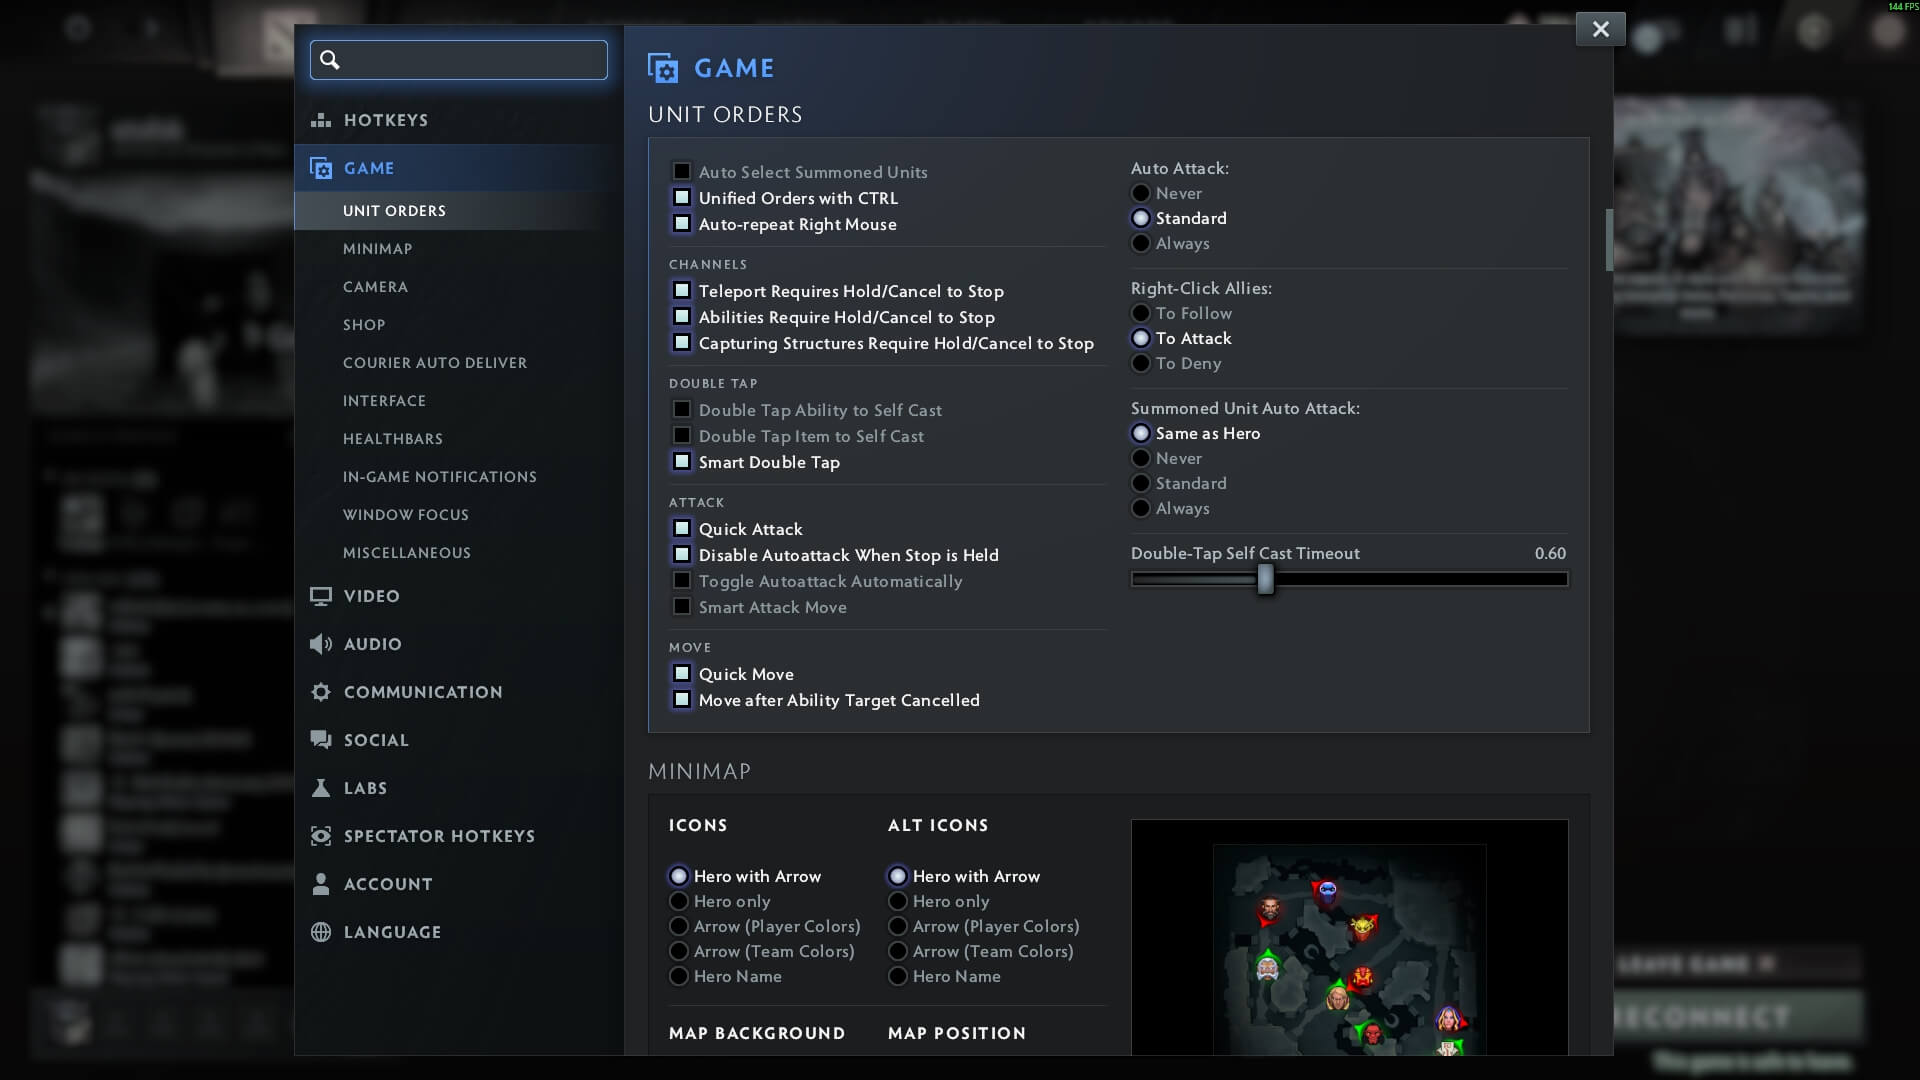
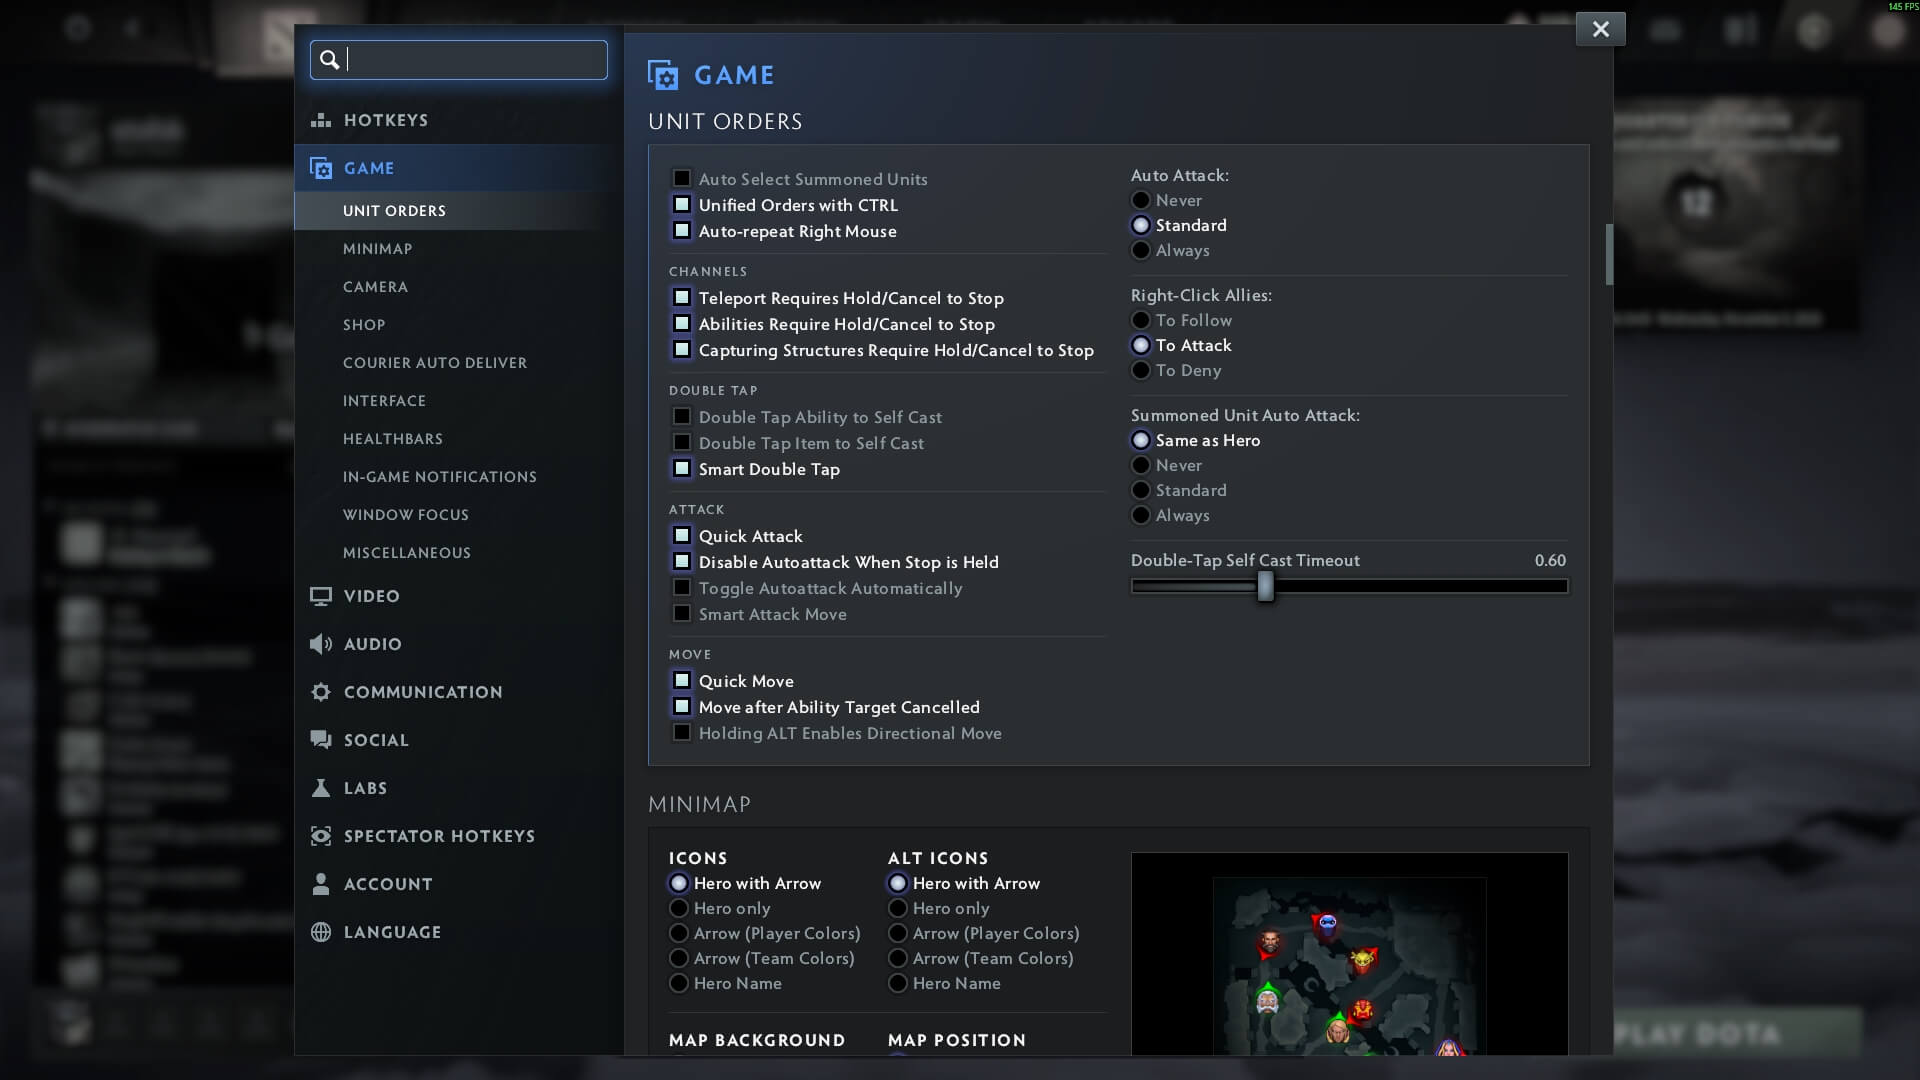
.

diff --git a/web/html/section-7-abilities-5-and-6.html b/web/html/section-7-abilities-5-and-6.html
@@ -4,13 +4,17 @@
 
       <p class="mt2">
         Extending our 'Ability row' to the right is not ideal. <br>
-        While <kbd>T</kbd> is somewhat ok — <kbd>Y</kbd> is just terrible.<br><br>
-        Also we want to keep in mind that not every hero <i>even has</i> <act>Ability 5</act> & <act>Ability 6</act>.<br>
-        And when they do, sometimes they are important and something not at all.<br>
+        While <kbd>T</kbd> is good key, <kbd>Y</kbd> is not.
+      </p>
+
+      <p class="mt2">
+        But not every hero <i>has</i> <act>Ability 5</act> or/and <act>Ability 6</act>.<br>
+        And if they do, some abilities are very important and some are rarely used.<br>
+        Some abilities are passives.
       </p>      
 
       <p class="mt2">
-        And sometimes one of the 'Core 4' abilities is a passive.
+        I believe I found a solution.
       </p>
 
       <div class="separator mt2"></div>
@@ -19,74 +23,66 @@
 
       <img class="" src="assets/images/options/abilities-phantom-assassin-binds-01.jpg" alt="">
 
-      <p>
-        Considering the fact that <span class="nowrap"><spell>Phantom Assassin</spell><img class="heroicon" src="assets/images/heroicon/phantomassassin.jpg" alt=""></span> has no summons, doesn't really buy <span class="nowrap"><spell>Manta Style</spell><img class="heroicon" src="assets/images/itemicon/mantastyle.jpg" alt=""></span>, and never gets <span class="nowrap"><spell>Book of the Dead</spell><img class="heroicon" src="assets/images/itemicon/bookofthedead.jpg" alt=""></span> — she's probably the simplest hero in the game in terms of unit control.
-      </p>
+      <p class="mt2">
+        Here we moved <span class="nowrap"><spell>Fan of Knives</spell><img class="heroicon" src="assets/images/spellicon/fanofknives.jpg" alt=""></span> from <kbd>T</kbd> to <kbd>R</kbd>, because <span class="nowrap"><spell>Coup De Grace</spell><img class="heroicon" src="assets/images/spellicon/coupdegrace.jpg" alt=""></span> is a passive ability.<br><br>
+        We just made it easier for outselves to use it.
+      </p>      
 
       <div class="separator mt2"></div>
 
       <p class="mt2">
-        Another example is <span class="nowrap"><spell>Ogre Magi</spell><img class="heroicon" src="assets/images/heroicon/ogremagi.jpg" alt=""></span>.
+        Another example: <span class="nowrap"><spell>Ogre Magi</spell><img class="heroicon" src="assets/images/heroicon/ogremagi.jpg" alt=""></span>.
       </p>
 
       <p class="mt2">
-        6 Abilities, but <span class="nowrap"><spell>Multicast</spell><img class="heroicon" src="assets/images/spellicon/multicast.jpg" alt=""></span> is a <i>passive</i>.<br>
-        It can't be activated.<br>
-      </p>
-
-      <p class="mt2">
-        So, let's use <kbd>R</kbd> for one of the other abilities:
+        <span class="nowrap"><spell>Multicast</spell><img class="heroicon" src="assets/images/spellicon/multicast.jpg" alt=""></span> is a <i>passive</i>.<br>
+        It can't be activated.
       </p>
 
       <p>
-        Leave <span class="nowrap"><spell>Bloodlust</spell><img class="heroicon" src="assets/images/spellicon/bloodlust.jpg" alt=""></span> on <kbd>E</kbd> and move <span class="nowrap"><spell>Fire Shield</spell><img class="heroicon" src="assets/images/spellicon/fireshield.jpg" alt=""></span> to <kbd>R</kbd>.
+        Here we moved <span class="nowrap"><spell>Fire Shield</spell><img class="heroicon" src="assets/images/spellicon/fireshield.jpg" alt=""></span> to <kbd>R</kbd>.
       </p>
 
       <img class="" src="assets/images/options/abilities-ogremagi-binds.jpg" alt="">
 
       <p>
-        This is reasonable, because both of our 'buff abilities' are next to each other and use great keys.<br>
-        But this is not ideal, because...
-      </p>
-
-      <div class="separator mt2"></div>
-
-      <p class="mt2"><span class="red">Important!</span><br><br>
-        You still <b>want</b> a hotkey for your passive abilities:<br>
-        If you don't have a hotkey, you can't use <kbd>CTRL</kbd> + <kbd>Ability Key</kbd> to learn the ability.<br>
-        You don't need <i>a great</i> key, but you <b>do</b> need <i>a</i> key.
+        This is reasonable, because both of our 'buff abilities' <span class="nowrap"><spell>Bloodlust</spell><img class="heroicon" src="assets/images/spellicon/bloodlust.jpg" alt=""> and <spell>Fire Shield</spell><img class="heroicon" src="assets/images/spellicon/fireshield.jpg" alt=""></span> are next to each other and use great keys.<br>
       </p>
 
       <div class="separator mt2"></div>
 
       <p class="mt2">
-        Let's try something with 6 <i>active</i> buttons:
+        <span class="red">> > Important! < <</span><br><br>
+        You still <b>need</b> a hotkey for your passive abilities!<br><br>
+        If you don't have a hotkey, you can't use <kbd>CTRL</kbd> + <kbd>Ability Key</kbd> to LEARN the ability.
+      </p>      
+
+      <p class="mt2">
+        You don't need <i>a great</i> key, but you <b>do need</b> <i>a</i> key.
+      </p>
+
+      <div class="separator mt2"></div>
+
+      <p class="mt2">
+        Here I want to highlight something...
       </p>
 
       <img class="" src="assets/images/options/abilities-hoodwink-binds-01.jpg" alt=""> 
 
-      <p>
-        This is really clunky and looks awful.
-      </p> 
-
       <p class="mt2">
-        But I want to highlight something — <b>it is possible to bind abilities to control group keys</b>.
+        <span class="red">It is possible to bind abilities to control group keys!</span>
       </p>
 
       <p class="mt2">
-        <span class="red">Important:</span> despite the fact that we have <act>Control Group 4</act> bound to <kbd>4</kbd>, it's still possible to use <kbd>4</kbd> as an ability key!
+        Despite the fact that we have <act>Control Group 4</act> bound to <kbd>4</kbd>, we can use <kbd>4</kbd> as an ability key!
       </p>
       
       <p class="mt2">
-        That's great news, because <span class="nowrap"><spell>Hoodwink</spell><img class="heroicon" src="assets/images/heroicon/hoodwink.jpg" alt=""></span> has no use for this many control groups, so keys like <kbd>3</kbd>, <kbd>4</kbd> and <kbd>5</kbd> are essentially free real estate.
+        That's <i>fantastic news</i>, because most of the time we have no use for this many control groups, so keys like <kbd>3</kbd>, <kbd>4</kbd> and <kbd>5</kbd> are essentially free real estate.
       </p>
       
       <p class="mt2">
-        Realistically, the only other units you <i>might</i> have when playing <span class="nowrap"><spell>Hoodwink</spell><img class="heroicon" src="assets/images/heroicon/hoodwink.jpg" alt=""></span> is <span class="nowrap"><spell>Book of the Dead</spell><img class="heroicon" src="assets/images/itemicon/bookofthedead.jpg" alt=""></span>, for which you don't even need a dedicated control group because you can just use <act>Select All Other Units</act> <span class="smaller">(more on that later)</span>.
-      </p>
-      
-      <p class="mt2">
-        This means, <span class="nowrap"><spell>Hoodwink</spell><img class="heroicon" src="assets/images/heroicon/hoodwink.jpg" alt=""></span> — among many — can get away with <b>0 control groups</b>.<br>
+        This means, <span class="nowrap"><spell>Hoodwink</spell><img class="heroicon" src="assets/images/heroicon/hoodwink.jpg" alt=""></span> — and many other heroes — can get away with <b>0 control groups</b>.<br>
         We can easily have a set up like this:
       </p>
 
@@ -105,27 +101,21 @@
       <div class="separator mt2"></div>
 
       <p class="mt2">
-        Here's <span class="nowrap"><spell>Invoker</spell><img class="heroicon" src="assets/images/heroicon/invoker.jpg" alt=""></span>, and he's no more difficult:
+        Here are two variations for <span class="nowrap"><spell>Invoker</spell><img class="heroicon" src="assets/images/heroicon/invoker.jpg" alt=""></span>
       </p>
 
       <img class="" src="assets/images/options/abilities-invoker-binds-01.jpg" alt="">
 
-      <p class="mt2">
-        Alternatively, if you don't care about control groups — just bind them. <br>
-        Leave <kbd>2</kbd> for <span class="nowrap"><spell>Forge Spirit</spell><img class="heroicon" src="assets/images/spellicon/forgespirit.jpg" alt=""></span> and use something like this:
-      </p>
-
       <img class="" src="assets/images/options/abilities-invoker-binds-02.jpg" alt="">
 
       <p class="mt2">
-        Ideally, to next-level your <span class="nowrap"><spell>Invoker</spell><img class="heroicon" src="assets/images/heroicon/invoker.jpg" alt=""></span> you'd want to cast <span class="nowrap"><spell>Invoke</spell><img class="heroicon" src="assets/images/spellicon/invoke.jpg" alt=""></span> with your thumb — so that you use all the fingers. It's more efficient this way, and faster.<br>
-        But that's a story for another day.
+        Leave <kbd>2</kbd> for <span class="nowrap"><spell>Forge Spirits</spell><img class="heroicon" src="assets/images/spellicon/forgespirit.jpg" alt=""></span>
       </p>
 
       <div class="separator mt2"></div>
 
       <p class="mt2">
-        Now let me show you something interesting.
+        Now you can experiement with your hotkeys to find the best set up for your heroes.
       </p>
 
     </div>

diff --git a/web/html/section-15-command-directional-move.html b/web/html/section-15-command-directional-move.html
@@ -4,18 +4,19 @@
 
       <p>
         Sometimes you want to turn your hero towards a direction <i>exactly</i>.<br><br>
-        That's why <act>Directional Move</act> is used all the time on heroes like <span class="nowrap"><spell>Shadow Fiend</spell><img class="heroicon" src="assets/images/heroicon/shadowfiend.jpg" alt=""></span>, <span class="nowrap"><spell>Slark</spell><img class="heroicon" src="assets/images/heroicon/slark.jpg" alt=""></span>, <span class="nowrap"><spell>Ursa</spell><img class="heroicon" src="assets/images/heroicon/ursa.jpg" alt=""></span>, <span class="nowrap"><spell>Earth Spirit</spell><img class="heroicon" src="assets/images/heroicon/earthspirit.jpg" alt=""></span>.<br>
-        It's much easier to line up your spells.
+        That's why <act>Directional Move</act> is used all the time on heroes like <span class="nowrap"><spell>Shadow Fiend</spell><img class="heroicon" src="assets/images/heroicon/shadowfiend.jpg" alt=""></span>, <span class="nowrap"><spell>Slark</spell><img class="heroicon" src="assets/images/heroicon/slark.jpg" alt=""></span>, <span class="nowrap"><spell>Ursa</spell><img class="heroicon" src="assets/images/heroicon/ursa.jpg" alt=""></span>, <span class="nowrap"><spell>Earth Spirit</spell><img class="heroicon" src="assets/images/heroicon/earthspirit.jpg" alt=""></span>.
       </p>
 
       <p class="mt2">
-        There are 2 ways to bind it.
-      </p>
+        Because it's much easier to line up your spells.
+        So, There are 2 ways to bind it.
+      </p>      
 
       <div class="separator mt2"></div>
 
       <p class="mt2">
-        <kbd>CapsLock</kbd> is a great key for <act>Directional Move</act>, because you activate it with the pinky finger, which allows you to use all the abilities and items as usual.
+        <kbd>CapsLock</kbd> is a great key for <act>Directional Move</act>, because you activate it with the pinky finger.<br>
+        This allows you to use all the abilities and items as usual.
       </p>
 
       <ul>
@@ -24,32 +25,46 @@
 
       <div class="separator mt2"></div>
 
+      <img class="" src="assets/images/options/new-alt-directional-move.jpg" alt="">
+
       <p class="mt2">
-        <span class="red">Not available through in-game settings</span>, but<br>
-        You can bind your <kbd>Alt</kbd> to your Right-Click in <b>autoexec.cfg</b><br>
+        With the August 19, 2025 update Valve added this:
+      </p>
+
+      <img class="" src="assets/images/options/command-directional-move-alt.jpg" alt="">
+
+      <p class="mt2">
+        Holding <kbd>Alt</kbd> Enabled <act>Direcional Move</act>
+      </p>
+
+      <p class="mt2">
+        However, I do not recommend using this.<br>
+        Because, while yes it's more convenient for <act>Directional Move</act> it really makes <i>everything else</i> worse.
+      </p>
+
+      <p class="mt2">
+        Think about it, we use <kbd>Alt</kbd> for everything:<br>
+        - Self cast abilities, items
+        - Toggle abilities, items
+        - All things shop and courier
+        - Pings on things
+      </p>
+
+      <p class="mt2">
+        We optimized our hotkey layout around <kbd>Alt</kbd>.<br>
+        This setting gets in the way and makes the experience worse.
+        Use a normal hotkey instead like <kbd>CapsLock</kbd> or <kbd>Win</kbd>
+      </p>
+
+      <div class="separator mt2"></div>
+
+      <p class="mt2">
+        p.s. this setting has always been in the game, but you had to set it up in console or autoexec.cfg like this:
       </p>
 
       <ul>
         <li>bind "ALT" "+dota_directional_move"</li>
         <li>cl_dota_alt_unit_movetodirection true</li>
       </ul>
-
-      <p class="mt2">
-        Got this from <a href="https://old.reddit.com/r/DotA2/comments/1mt4wdv/make_alt_right_click_directional_move/" target="_blank">this topic</a> recently.
-      </p>
-
-      <div class="separator mt2"></div>
-
-      <p class="mt2">
-        <b>Dota 2 autoexec.cfg location</b>: \Steam\steamapps\common\dota 2 beta\game\dota\cfg<br><br>
-        If you don't have it there just create one.
-      </p>
-
-      <p class="mt2">
-        Personally, I don't like it.<br>
-        I hate it, even.<br>
-        After this got me killed at couple of times I removed it from my autoexec.cgf<br>
-        (you have to "unbind" and "false" the commands.)
-      </p>
 
     </div>

diff --git a/web/html/section-5-abilities-quickcast.html b/web/html/section-5-abilities-quickcast.html
@@ -3,33 +3,30 @@
       <h2>Abilities — Quick Cast</h2>
 
       <p>
-        Quick Casts allow us to cast instantly with a key press, eliminating the need for a mouse click.<br>
-        Put everything on Quick Casts, with one exception — <act>Point Target</act> Area of Effect spells.
+        Abilities on Quick Casts fire as soon as you press the key.<br>
+        You don't need to "Select Target".
       </p>
       
       <p class="mt2">
-        Notable examples: <span class="nowrap"><spell>Black Hole</spell><img class="heroicon" src="assets/images/spellicon/blackhole.jpg" alt=""></span>, <span class="nowrap"><spell>Nether Blast</spell><img class="heroicon" src="assets/images/spellicon/netherblast.jpg" alt=""></span>, <span class="nowrap"><spell>Chronosphere</spell><img class="heroicon" src="assets/images/spellicon/chronosphere.jpg" alt=""></span>, etc.
+        As a rule of thumb, use Quick Casts for everything <u>except</u> Point Target Area of Effect spells like these:
+        <span class="nowrap"><spell>Black Hole</spell><img class="heroicon" src="assets/images/spellicon/blackhole.jpg" alt=""></span>, <span class="nowrap"><spell>Nether Blast</spell><img class="heroicon" src="assets/images/spellicon/netherblast.jpg" alt=""></span>, <span class="nowrap"><spell>Chronosphere</spell><img class="heroicon" src="assets/images/spellicon/chronosphere.jpg" alt=""></span>, etc.
       </p>
 
       <p class="mt2">
-        Because we need to aim these very carefully — it's better to keep them on Normal Cast.
+        We need to aim these very carefully, so it's better to keep them on Normal Cast.
       </p>
 
-      <img class="" src="assets/images/options/abilities-cast.jpg" alt=""> 
+      <img class="" src="assets/images/options/abilities-cast.jpg" alt="">
 
       <img class="" src="assets/images/options/abilities-quickcast.jpg" alt=""> 
       
       <div class="separator mt2"></div>
 
       <p class="mt2">
-        Don't forget to rebind abilities onto Quick Casts for Neutrals.<br>
+        Don't forget to set Quick Casts for Neutrals.<br>
         Most neutrals have an ability to cast.
       </p>
 
       <img class="" src="assets/images/options/abilities-neutrals-quickcast.jpg" alt="">
-
-      <p>
-        This is also useful for <span class="nowrap"><spell>Book of the Dead</spell><img class="heroicon" src="assets/images/itemicon/bookofthedead.jpg" alt=""></span> <span class="nowrap"><spell>Purge</spell><img class="heroicon" src="assets/images/spellicon/necronomion-archer-purge.jpg" alt=""></span>
-      </p>
 
     </div>

diff --git a/web/html/section-8-abilities-no-target.html b/web/html/section-8-abilities-no-target.html
@@ -2,8 +2,12 @@
 
   <h2>Abilities - No Target Abilities</h2>
 
-  <p>One last tip on how to bind <act>No Target</act> abilities like these:</p>
-  
+  <p>
+    <span class="red">IMPORTANT</span>
+  </p>
+
+  <p>How to bind <act>No Target</act> abilities like these:</p>
+
   <p>
     <span class="nowrap"><spell>Mirror Image</spell><img class="heroicon" src="assets/images/spellicon/mirrorimage.jpg" alt=""></span>,
     <span class="nowrap"><spell>Rip Tide</spell><img class="heroicon" src="assets/images/spellicon/riptide.jpg" alt=""></span>,
@@ -19,23 +23,28 @@
     <span class="nowrap"><spell>Invoke</spell><img class="heroicon" src="assets/images/spellicon/invoke.jpg" alt=""></span>
   </p>
 
-  <p class="mt2">You want to bind these abilities to <act>Normal Cast</act>, and <b>also</b> bind these abilities to <act>Quickcast</act> hotkeys with <kbd>Alt</kbd>, like so:</p>
+  <p class="mt2">(and many other abilities)</p>
+
+  <div class="separator mt2"></div>
+
+  <p class="mt2">
+    Bind <act>No Target</act> abilities to <b>both</b> <act>Normal Cast</act> <b>and</b> <act>Quick Cast</act>.<br><br>
+    <span class="red"> If a <act>No Target</act> ability is bound to <kbd>Q</kbd>, <kbd>Alt</kbd> + <kbd>Q</kbd> will not fire it.</span>
+  </p>
 
   <img class="" src="assets/images/options/abilities-nagasiren-binds-01.jpg" alt="">
 
   <img class="" src="assets/images/options/abilities-nagasiren-binds-02.jpg" alt="">
-  <span class="smaller">(please be careful, because Ensnare is a targerable ability)</span>
+
 
   <p class="mt2">
-    The reason is because we're going to use <kbd>Alt</kbd> a lot.<br><br>
-    And if a <act>No Target</act> ability is bound to <kbd>Q</kbd>, then <kbd>Alt</kbd> + <kbd>Q</kbd> <b>will not</b> fire it.<br>
-    You <b>have</b> to release <kbd>Alt</kbd> to cast.
+    Spend a few minutes and bind <act>No Target</act> abilities like this:<br>
+    <act>Normal Cast</act> — <kbd>Q</kbd><br>
+    <act>Quick Cast</act> — <kbd>Alt</kbd> + <kbd>Q</kbd>
   </p>
-
+  
   <p class="mt2">
-    Spend a few minutes and bind both — you don't have a heropool of 100.<br>
-    It might come into play in a hectic fight.<br><br>
-    The HUD shows <act>Cast</act> key binds over <act>Quickcast</act>, so in-game it'll look good.
+    This will come into play in a hectic fight.
   </p>
-
+  
 </div>

diff --git a/web/html/section-6-abilities-toggle.html b/web/html/section-6-abilities-toggle.html
@@ -1,0 +1,25 @@
+    <div class="wrap-section-block">
+
+      <h2>Abilities — Toggle</h2>
+
+      <p>
+        1. Go to <act>Default</act> → <act>Autocast</act> and clear up these binds.<br>
+        Long story short: they sometimes get in the way, please do it.
+      </p>
+
+      <img class="" src="assets/images/options/abilities-default-autocast-01.jpg" alt=""> 
+
+      <p>
+        2. Go to <act>Heroes</act> → <act>Select Hero</act> → <act>Autocast</act> and manually bind the toggles to <kbd>Alt</kbd>+<kbd>Key</kbd>.
+      </p>
+
+      <img class="" src="assets/images/options/abilities-autocast-01.jpg" alt=""> 
+
+      <img class="" src="assets/images/options/abilities-autocast-02.jpg" alt=""> 
+
+      <img class="" src="assets/images/options/abilities-autocast-03.jpg" alt="">
+      
+      <p>
+        Other notable examples are: <span class="nowrap"><spell>Devour</spell><img class="heroicon" src="assets/images/spellicon/devour.jpg" alt=""></span>, <span class="nowrap"><spell>Acorn Shot</spell><img class="heroicon" src="assets/images/spellicon/acornshot.jpg" alt=""></span>, etc
+      </p>
+    </div>    

diff --git a/web/html/section-3-control-groups.html b/web/html/section-3-control-groups.html
@@ -18,14 +18,14 @@
       </p>
 
       <p class="mt2">
-        97% of the hero pool will do perfectly fine with just 2-3 groups.<br>
+        97% of the hero pool plays perfectly fine with just 2-3 groups.<br>
         In fact, in Dota 2 we can get away with exactly <b>0 control groups</b>.<br><br>
         More on that later.
       </p>
 
       <div class="mt2 separator"></div>
 
-      <p class="mt2">It's not going to hurt to have specific binds for...<br>
+      <p class="mt2">It's not going to hurt to have binds for...<br>
         <span class="nowrap"><spell>Warlock</spell><img class="heroicon" src="assets/images/heroicon/warlock.jpg" alt=""></span>
         <span class="nowrap"><spell>Chaotic Offering</spell><img class="heroicon" src="assets/images/spellicon/chaoticoffering.jpg" alt=""></span>,<br>
         <span class="nowrap"><spell>Lone Druid</spell><img class="heroicon" src="assets/images/heroicon/lonedruid.jpg" alt=""></span>
